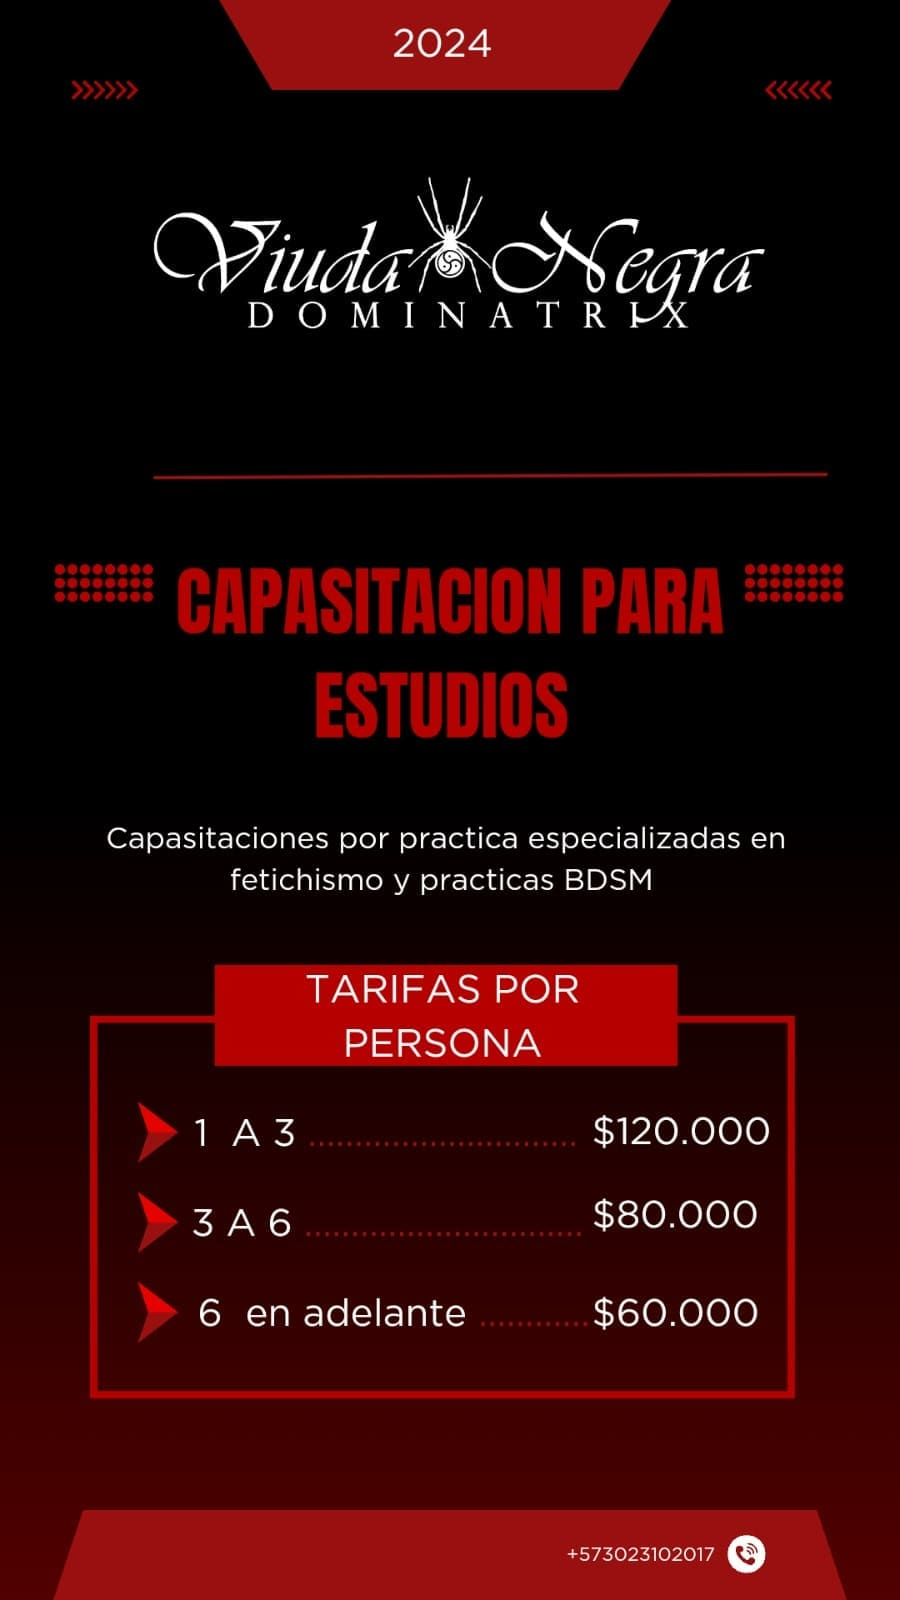
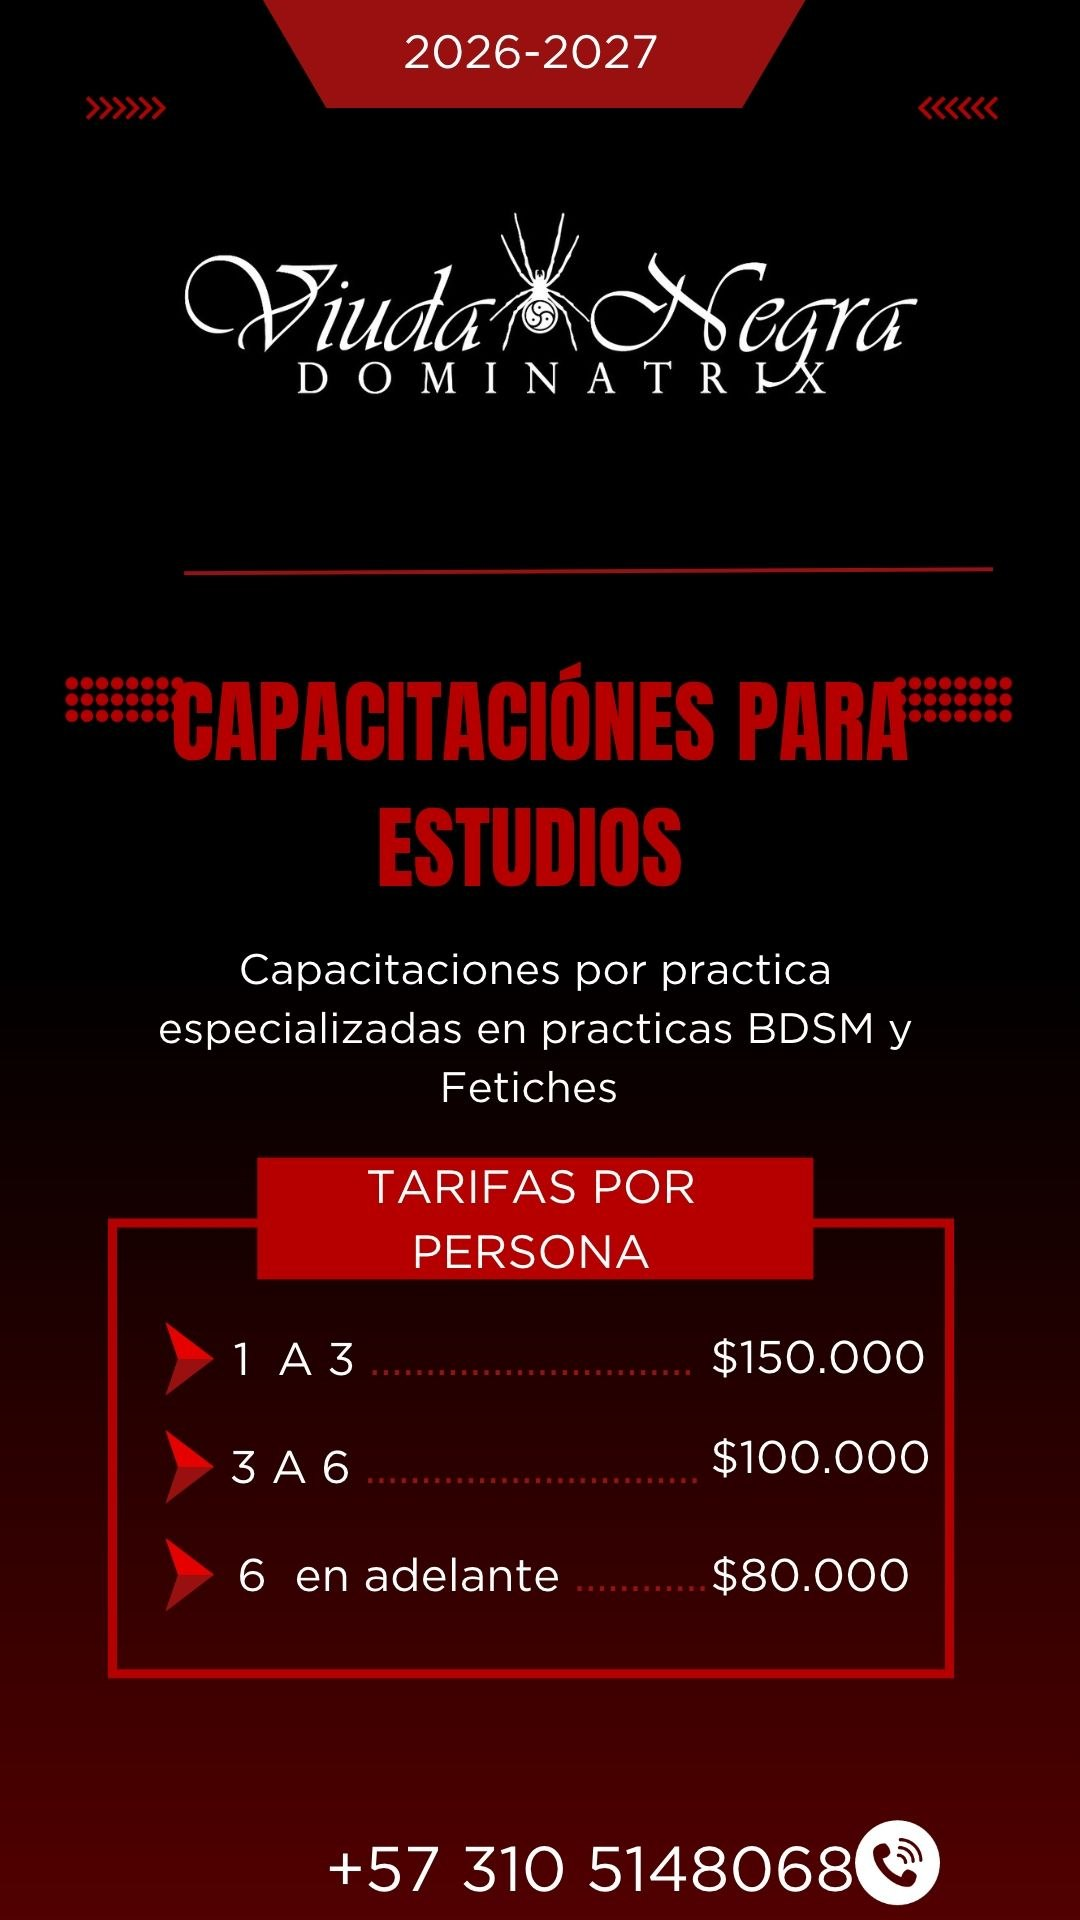
Batch: pegging full-session gallery, move cover video to Shows, refresh Talleres pricing graphics, clear Sadomasoquismo/Bondage practice photos
- Pegging: add 13-photo "Sesión Completa" gallery as its own section
- Move the Presenciales intro video to Shows as its cover video (Presenciales had no replacement, so that video slot is removed there for now)
- Talleres: replace both pricing/available-workshops graphics with updated versions
- Practicas: remove Sadomasoquismo and Bondage tab photos so they fall back to "coming soon" (images stay on disk, still used by Eventos/Wishlist/Mazmorra)

diff --git a/src/pages/PresencialesPage.tsx b/src/pages/PresencialesPage.tsx
@@ -1,22 +1,17 @@
-import { useState } from 'react';
 import { useTranslation } from 'react-i18next';
 import { Icon } from '../components/atoms/Icon';
 import { Button } from '../components/atoms/Button';
 import { Badge } from '../components/atoms/Badge';
 import { Reveal } from '../components/atoms/Reveal';
-import { VideoThumbnail } from '../components/molecules/VideoThumbnail';
-import { VideoModal } from '../components/organisms/VideoModal';
 import { GalleryLightbox } from '../components/organisms/GalleryLightbox';
 import { useLightbox } from '../hooks/useLightbox';
 import { buildWhatsAppUrl } from '../lib/whatsapp';
-import { videos, videoPosters } from '../content/videos';
 import { MultipleSessionsSection } from '../components/organisms/MultipleSessionsSection';
 import { SubmissiveSessionsSection } from '../components/organisms/SubmissiveSessionsSection';
 import { RulesSection } from '../components/organisms/RulesSection';
 
 export function PresencialesPage() {
   const { t } = useTranslation();
-  const [videoOpen, setVideoOpen] = useState(false);
   const paymentLightbox = useLightbox();
 
   return (
@@ -31,15 +26,6 @@ export function PresencialesPage() {
         >
           <h1 className="mb-4 font-heading text-3xl font-bold text-white md:text-4xl">{t('presenciales:title')}</h1>
           <p className="mx-auto max-w-3xl text-center text-lg leading-relaxed text-white">{t('presenciales:description')}</p>
-        </Reveal>
-
-        <Reveal className="mb-8 rounded-[20px] border border-white/20 bg-black/50 p-6 text-center shadow-2xl backdrop-blur-sm md:p-10">
-          <VideoThumbnail
-            posterSrc={videoPosters.presenciales}
-            alt="Video de sesiones presenciales"
-            heightClass="h-[260px] sm:h-[380px]"
-            onClick={() => setVideoOpen(true)}
-          />
         </Reveal>
 
         <RulesSection />
@@ -115,7 +101,6 @@ export function PresencialesPage() {
           </div>
         </Reveal>
       </div>
-      {videoOpen && <VideoModal url={videos.presenciales} onClose={() => setVideoOpen(false)} />}
       <GalleryLightbox
         images={[{ src: '/img/presenciales/mediospago.jpg', alt: t('presenciales:payment_methods.title') }]}
         index={paymentLightbox.index}

diff --git a/src/pages/ShowsPage.tsx b/src/pages/ShowsPage.tsx
@@ -7,7 +7,7 @@ import { VideoModal } from '../components/organisms/VideoModal';
 import { GalleryLightbox } from '../components/organisms/GalleryLightbox';
 import { useLightbox } from '../hooks/useLightbox';
 import { buildWhatsAppUrl } from '../lib/whatsapp';
-import { showVideos } from '../content/videos';
+import { showVideos, videos, videoPosters } from '../content/videos';
 
 const performerPhotos = [
   { src: '/img/eventos/performers1.jpg', alt: 'Performers en látex en un evento fetichista' },
@@ -34,6 +34,15 @@ export function ShowsPage() {
             Shows en vivo, performances fetichistas y presentaciones de la Dominatrix Viuda Negra para clubes,
             fiestas temáticas y eventos privados en Bogotá.
           </p>
+        </Reveal>
+
+        <Reveal className="mb-8 rounded-[20px] border border-white/20 bg-black/50 p-6 text-center shadow-2xl backdrop-blur-sm md:p-10">
+          <VideoThumbnail
+            posterSrc={videoPosters.showsCover}
+            alt="Video de portada de Show Eventos / Performers"
+            heightClass="h-[260px] sm:h-[380px]"
+            onClick={() => setActiveVideo(videos.showsCover)}
+          />
         </Reveal>
 
         <div className="grid grid-cols-1 gap-8 md:grid-cols-3">

diff --git a/src/content/practiceTabs.ts b/src/content/practiceTabs.ts
@@ -39,16 +39,13 @@ export const practiceTabs: PracticeTab[] = [
     navLabelKey: 'common:nav.practices_pegging',
     titleKey: 'practicas:tabs.pegging.title',
     descriptionKey: 'practicas:tabs.pegging.description',
-    categories: [bySlug('pegging')],
+    categories: [bySlug('pegging'), bySlug('peggingScene')],
   },
   {
     slug: 'sadomasoquismo',
     navLabelKey: 'common:nav.practices_sadomasoquismo',
     titleKey: 'practicas:tabs.sadomasoquismo.title',
     descriptionKey: 'practicas:tabs.sadomasoquismo.description',
-    categories: [
-      { slug: 'sadomasoquismo', titleKey: 'practicas:tabs.sadomasoquismo.title', folder: '/img/throne', filePrefix: 'throne', count: 4, extension: 'jpg' },
-    ],
   },
   {
     slug: 'lluvias',
@@ -61,9 +58,6 @@ export const practiceTabs: PracticeTab[] = [
     navLabelKey: 'common:nav.practices_bondage',
     titleKey: 'practicas:tabs.bondage.title',
     descriptionKey: 'practicas:tabs.bondage.description',
-    categories: [
-      { slug: 'bondage', titleKey: 'practicas:tabs.bondage.title', folder: '/img/mazmorra/bondage', filePrefix: 'bondage', count: 7, extension: 'jpg' },
-    ],
   },
   {
     slug: 'findom',

diff --git a/src/content/practiceCategories.ts b/src/content/practiceCategories.ts
@@ -9,6 +9,7 @@ export const practiceCategories: PracticeCategory[] = [
   { slug: 'smoking', titleKey: 'practicas:smoking_title', folder: '/img/smoking', filePrefix: 'smoking', count: 3, extension: 'jpg' },
   { slug: 'chastity', titleKey: 'practicas:chastity_title', folder: '/img/chastity', filePrefix: 'castidad', count: 7, extension: 'jpg' },
   { slug: 'pegging', titleKey: 'practicas:pegging_title', folder: '/img/pegging', filePrefix: 'pegging', count: 5, extension: 'jpg' },
+  { slug: 'peggingScene', titleKey: 'practicas:peggingScene_title', folder: '/img/peggingScene', filePrefix: 'peggingScene', count: 13, extension: 'jpg' },
   { slug: 'petplay', titleKey: 'practicas:petplay_title', folder: '/img/petplay', filePrefix: 'petplay', count: 10, extension: 'jpg' },
   { slug: 'leatherGloves', titleKey: 'practicas:leatherGloves_title', folder: '/img/leathergloves', filePrefix: 'leathergloves', count: 5, extension: 'jpg' },
 ];

diff --git a/src/content/videos.ts b/src/content/videos.ts
@@ -13,7 +13,7 @@ function bunnyThumbnail(videoId: string) {
 const videoIds = {
   home: 'c3f5baac-3553-40a4-9656-8078506d0d1b',
   inicio: '19fa5b5f-1497-444b-a60b-12fa8f7f3c7d',
-  presenciales: '3c98e918-d894-4ee3-bbae-4221a4ae73d9',
+  showsCover: '3c98e918-d894-4ee3-bbae-4221a4ae73d9',
   mazmorraJuguetes: '24e98f21-f846-45e2-9c72-f616850ff89a',
   rubberDollJade: '40b17239-7822-4439-959a-2241e84c4461',
   contenidoDomina: 'e1420395-47ac-4d38-b33d-e338b36cc8b5',
